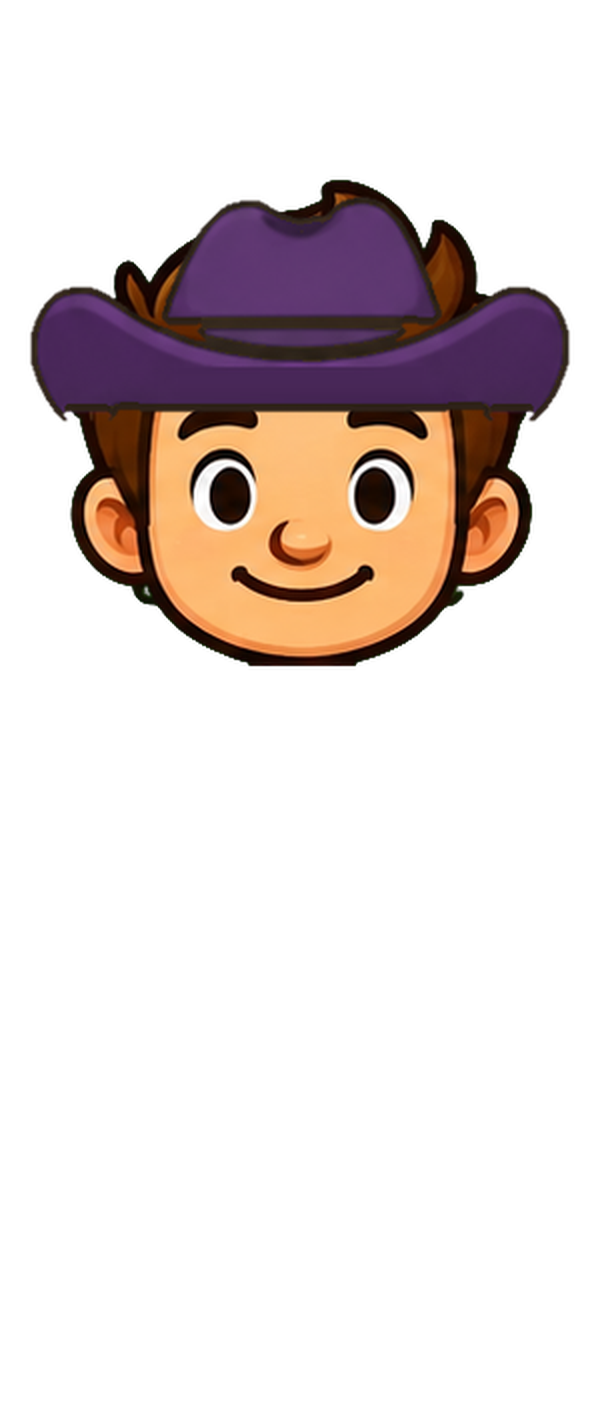
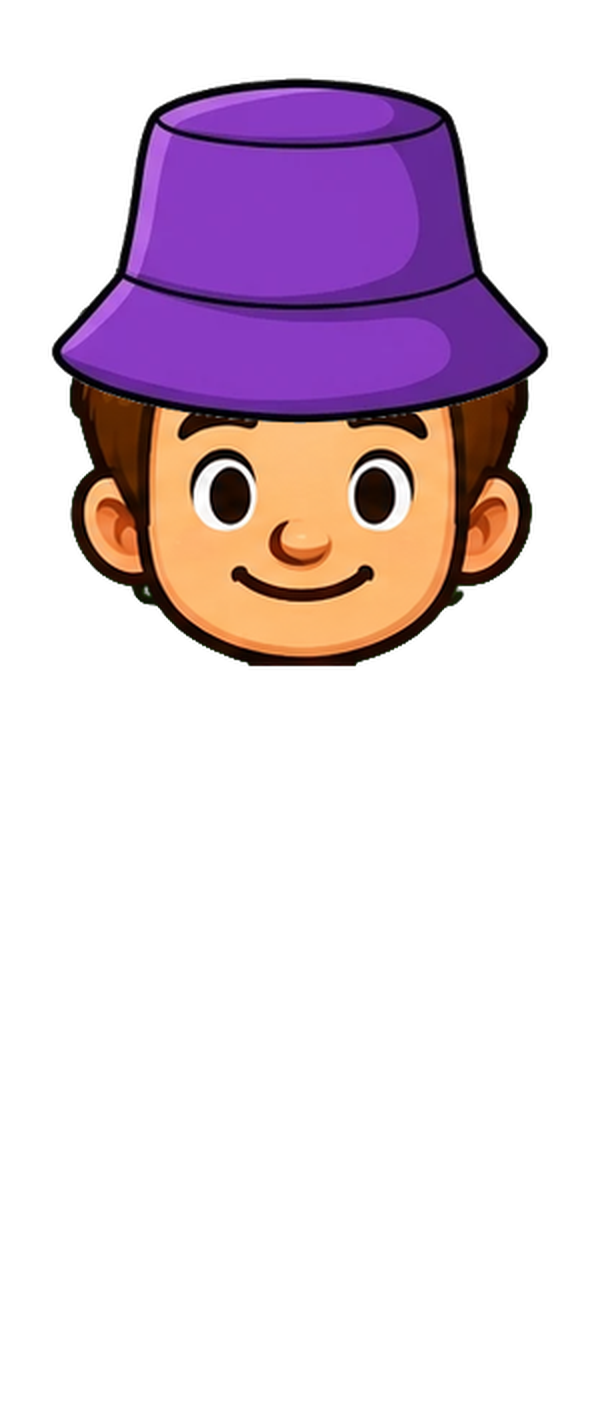
style: gorro de Natal, óculos de sol verde e chapéu bucket roxo na loja
Claude-Session: https://claude.ai/code/session_01VbiMfDaeo9GAVaXMepunLE

Changed region(s): [[0.03, 0.0307, 0.96, 0.3067]]

diff --git a/src/catalogos/avatar.js b/src/catalogos/avatar.js
@@ -15,7 +15,7 @@ export const CABECAS = {
   'chapeu-mago': require('../../assets/images/avatar/cabecas/chapeu-mago.png'),
   coroa: require('../../assets/images/avatar/cabecas/coroa.png'),
   viking: require('../../assets/images/avatar/cabecas/viking.png'),
-  cowboy: require('../../assets/images/avatar/cabecas/cowboy.png'),
+  'gorro-natal': require('../../assets/images/avatar/cabecas/gorro-natal.png'),
   'chapeu-roxo': require('../../assets/images/avatar/cabecas/chapeu-roxo.png'),
   'chapeu-bruxa': require('../../assets/images/avatar/cabecas/chapeu-bruxa.png'),
 };
@@ -116,7 +116,7 @@ const miniatura = {
   bermudaPreta: require('../../assets/images/avatar/miniaturas/bermuda-preta.png'),
   dinossauroVerde: require('../../assets/images/avatar/miniaturas/fantasia-dinossauro-verde.png'),
   abelhaRosa: require('../../assets/images/avatar/miniaturas/fantasia-abelha-rosa.png'),
-  cowboy: require('../../assets/images/avatar/miniaturas/cowboy.png'),
+  gorroNatal: require('../../assets/images/avatar/miniaturas/gorro-natal.png'),
   chapeuRoxo: require('../../assets/images/avatar/miniaturas/chapeu-roxo.png'),
   chapeuBruxa: require('../../assets/images/avatar/miniaturas/chapeu-bruxa.png'),
   oculosVerde: require('../../assets/images/avatar/miniaturas/oculos-verde.png'),
@@ -159,14 +159,14 @@ export const CATEGORIAS_VITRINE = [
         nivelMinimo: NIVEL_ITEM_EPICO,
       },
       {
-        id: 'cowboy',
-        nome: 'Chapéu de cowboy',
-        miniatura: miniatura.cowboy,
+        id: 'gorro-natal',
+        nome: 'Gorro de Natal',
+        miniatura: miniatura.gorroNatal,
         daLoja: true,
       },
       {
         id: 'chapeu-roxo',
-        nome: 'Chapéu roxo',
+        nome: 'Chapéu bucket roxo',
         miniatura: miniatura.chapeuRoxo,
         daLoja: true,
       },
@@ -204,7 +204,7 @@ export const CATEGORIAS_VITRINE = [
       },
       {
         id: 'verde',
-        nome: 'Óculos verde',
+        nome: 'Óculos de sol verde',
         miniatura: miniatura.oculosVerde,
         daLoja: true,
       },

diff --git a/src/catalogos/loja.js b/src/catalogos/loja.js
@@ -2,7 +2,7 @@
 // "categoria" e "id" apontam para o item do avatar (catálogo do avatar);
 // depois de comprado, ele aparece na vitrine da Minha Conta.
 const imagem = {
-  cowboy: require('../../assets/images/loja/chapeu-cowboy.png'),
+  gorroNatal: require('../../assets/images/loja/gorro-natal.png'),
   oculosVerde: require('../../assets/images/loja/oculos-verde.png'),
   chapeuRoxo: require('../../assets/images/loja/chapeu-roxo.png'),
   tenis: require('../../assets/images/loja/tenis.png'),
@@ -14,22 +14,22 @@ const imagem = {
 export const ITENS_LOJA = [
   {
     categoria: 'chapeu',
-    id: 'cowboy',
-    nome: 'Chapéu de cowboy',
+    id: 'gorro-natal',
+    nome: 'Gorro de Natal',
     preco: 100,
-    imagem: imagem.cowboy,
+    imagem: imagem.gorroNatal,
   },
   {
     categoria: 'oculos',
     id: 'verde',
-    nome: 'Óculos verde',
+    nome: 'Óculos de sol verde',
     preco: 50,
     imagem: imagem.oculosVerde,
   },
   {
     categoria: 'chapeu',
     id: 'chapeu-roxo',
-    nome: 'Chapéu roxo',
+    nome: 'Chapéu bucket roxo',
     preco: 25,
     imagem: imagem.chapeuRoxo,
   },
@@ -63,7 +63,7 @@ export const ITENS_LOJA = [
   },
 ];
 
-// Chave única de um item, juntando categoria e id (ex.: "chapeu:cowboy").
+// Chave única de um item, juntando categoria e id (ex.: "chapeu:gorro-natal").
 export function chaveDoItem(categoria, id) {
   return `${categoria}:${id}`;
 }

diff --git a/src/services/AvatarService.js b/src/services/AvatarService.js
@@ -18,7 +18,7 @@ class AvatarService {
     return Promise.resolve({ ...this.visual });
   }
 
-  // Chaves dos itens comprados (ex.: "chapeu:cowboy").
+  // Chaves dos itens comprados (ex.: "chapeu:gorro-natal").
   buscarComprados() {
     return Promise.resolve([...this.comprados]);
   }
